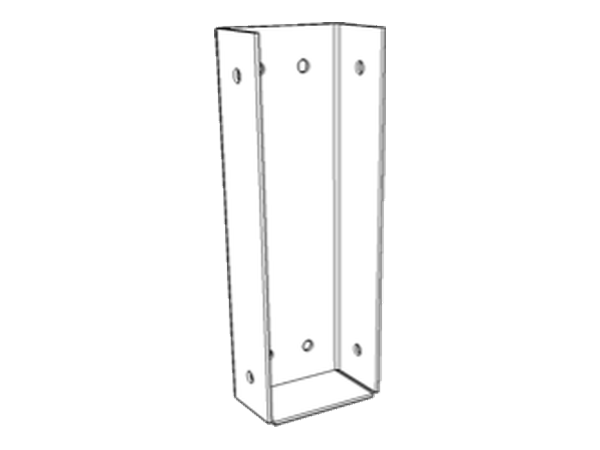
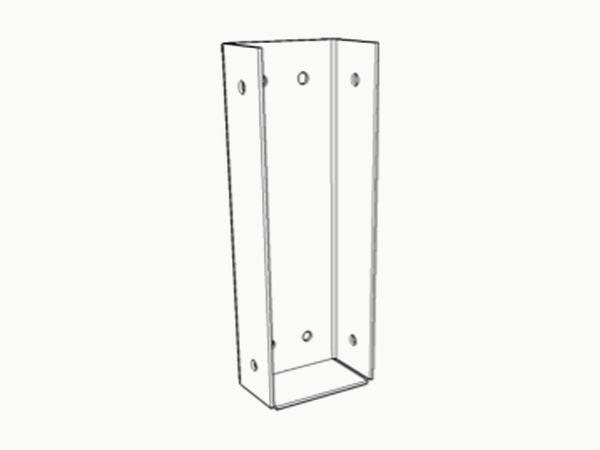
Steel floors: colour-match the part images to the card instead of cutting them out
Transparency was the wrong tool, and the grey plinth made it worse by drawing a
box around the problem.

Scanning a row across the bearer and joist image explained it: card colour, a dark
outline at (51,51,51), then FOUR HUNDRED PIXELS of pure white, then the outline
again. These are line drawings — the steel is drawn as a white FILL described by
dark outlines and grey shading. Knocking out the backdrop never touched that fill,
so a white rectangle with a hairline border sat on a near-white card and read
exactly like a leftover background, because that is what it looks like.

So: flood the backdrop to #FAFAF8 rather than to transparent, then recolour the
white fill to #FAFAF8 as well, keeping anything with tone in it. What is left is
linework and shading on the same ground the card uses. Measured on the rendered
page: the tile and the card are both 92-94% #FAFAF8 and contain ZERO pure-white
pixels, so there is no tile edge to see.

#FAFAF8 is --color-canvas-warm, hard-baked into the images. The two have to move
together: change the card ground and these need re-exporting to match. Worth
replacing with proper cut-outs on transparency if the source files ever turn up.

Changed region(s): [[0.33, 0.0311, 0.66, 0.9644]]

diff --git a/app/globals.css b/app/globals.css
@@ -5440,13 +5440,9 @@ a { color: inherit; }
 /* The 3D sits on white — it is a line drawing, and the warm card ground muddies it. */
 .ts-sf-hero-dwg { background: #fff; }
 
-/* THE PARTS ARE THEMSELVES NEAR-WHITE, which is why they read as "a white background" even with the
-   backdrop knocked out. Measured: corners fully transparent, no rectangular block survived, opaque
-   regions fill only 46-89% of their own bounding box with zero full columns — so what is left is the
-   part, not a backdrop, and taking more white would take the component with it.
-   A white object needs a ground to sit on. This gives each one a soft neutral plinth, so the part
-   reads as a photographed component rather than a pale smudge on the warm card. */
-.ts-sf-kit-photo {
-  background: var(--ts-cream-inset);
-  border-radius: var(--radius-md);
-}
+/* COLOUR-MATCHED, NOT CUT OUT. Transparency was the wrong tool here: the parts are themselves
+   near-white, so knocking the backdrop out left a white object floating on the warm card, and a grey
+   plinth behind it only drew a box around the problem. The images are now flattened onto #FAFAF8 —
+   the exact --color-canvas-warm the cards use — so the tile has no edge to see. Keep the two in step:
+   change the card ground and these have to be re-exported to match. */
+.ts-sf-kit-photo { background: transparent; }
